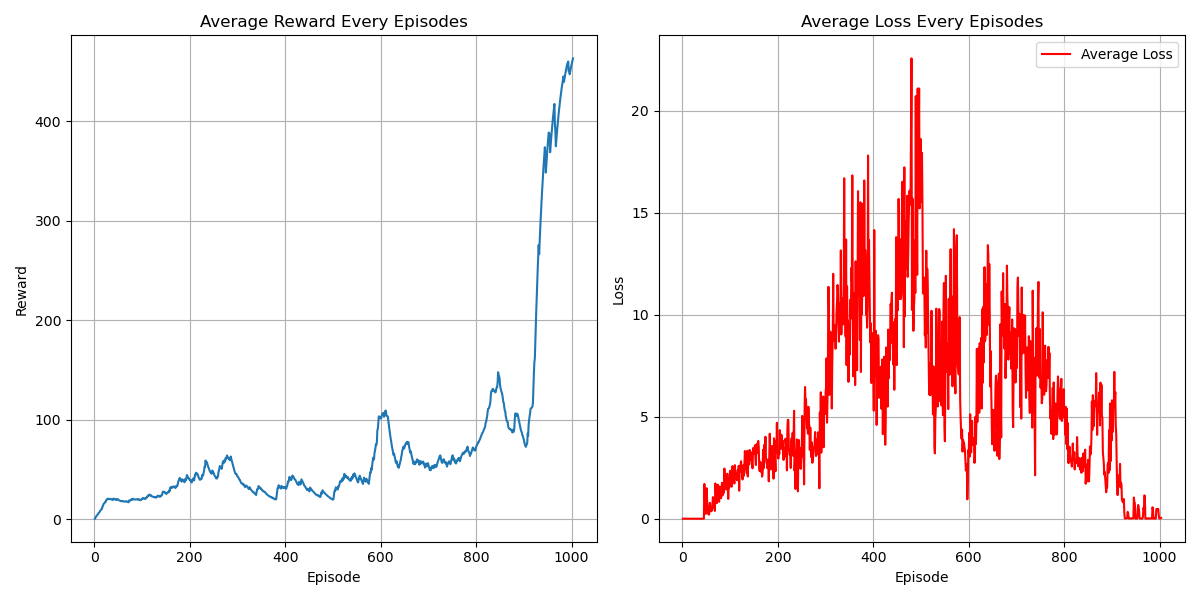
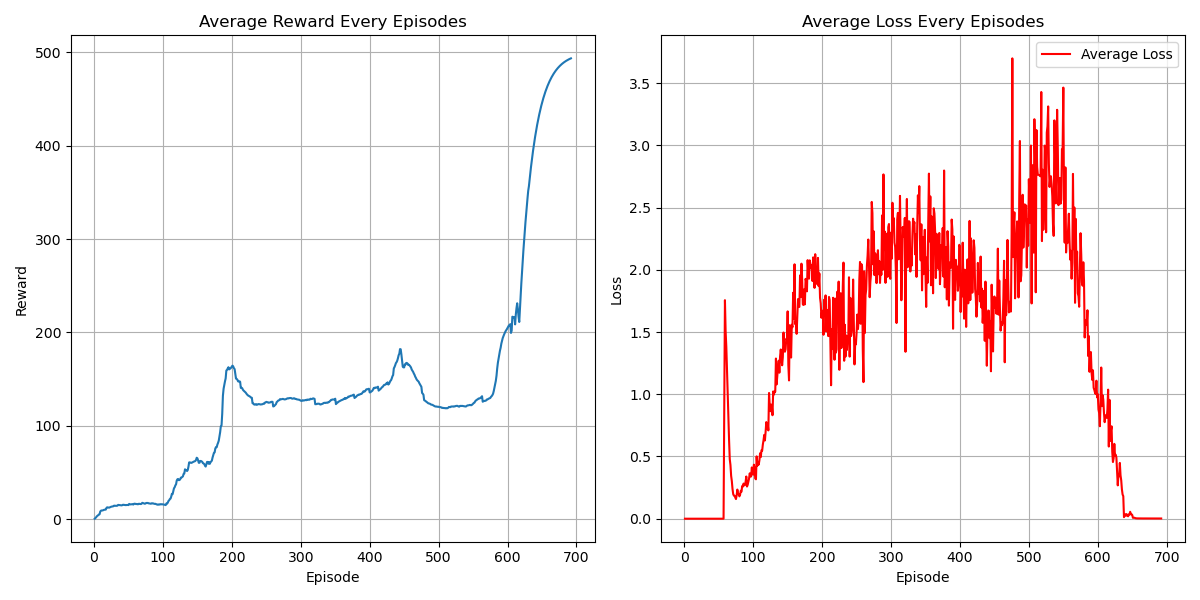
improve IQN

diff --git a/IQN/iqn.py b/IQN/iqn.py
@@ -1,7 +1,7 @@
 import os
 import sys
 import gym
-import random
+import math, random
 import argparse
 import numpy as np
 
@@ -50,6 +50,13 @@ def to_device(data):
     if isinstance(data, (list, tuple)):
         return [to_device(d, deviceGPU) for d in data]
     return data.to(deviceGPU)
+
+# Epsilon greedy decay as episodes increase
+epsilon_start = 1.0
+epsilon_final = 0.01
+epsilon_decay = 150
+
+epsilon_by_episode = lambda episode_idx: epsilon_final + (epsilon_start - epsilon_final) * math.exp(-1. * episode_idx / epsilon_decay)
 
 # NN model
 class ImplicitCritic(nn.Module):
@@ -148,19 +155,21 @@ class IQNAGENT(object):
 
         self.optim.zero_grad()
         loss.backward()
+
+        torch.nn.utils.clip_grad_norm_(self.icritic.parameters(), max_norm=4.0)#1.0
         self.optim.step()
 
         return loss
 
 env_name = 'CartPole-v1'
 gamma = 0.99
-batch_size = 32
-lr = 0.001
+batch_size = 64
+lr = 5e-4
 initial_exploration = 1000
-goal_score = 463
+goal_score = 490
 log_interval = 10
 update_target = 100
-replay_memory_capacity = 1000
+replay_memory_capacity = 10000 #50000
 
 num_quantile_sample = 32
 num_tau_sample = 16
@@ -186,12 +195,13 @@ def main():
 
     epsilon = 1.0
     steps = 0
+    success_count = 0
 
     for episode_idx in range(10000):
         initState,_ = env.reset()
         state = torch.Tensor(initState).to(deviceGPU)
         state = state.unsqueeze(0)
-
+        epsilon = epsilon_by_episode(episode_idx)
         terminate = False
         truncated = False
         episode_reward = 0
@@ -217,14 +227,14 @@ def main():
             state = next_state
 
             if steps > initial_exploration:
-                epsilon -= 0.00005
-                epsilon = max(epsilon, 0.1)
+                #epsilon -= 0.00005
+                #epsilon = max(epsilon, 0.1)
 
                 training_batch = replay_buffer.sample(batch_size)
                 tmpLoss = iqnAgent.update_parameter(training_batch)
                 loss += tmpLoss.item()
-                if steps % update_target == 0:
-                    hard_update(iqnAgent.icritic_target, iqnAgent.icritic)
+                #if steps % update_target == 0:
+                soft_update(iqnAgent.icritic_target, iqnAgent.icritic, 0.005)
 
         losses.append(loss/step)
 
@@ -236,6 +246,10 @@ def main():
                                                                                        episode_reward, ewma_reward, loss/step))
         # early terminate
         if ewma_reward > goal_score:
+            success_count += 1
+        else:
+            success_count = 0
+        if success_count >= 10:
             break
     
 
